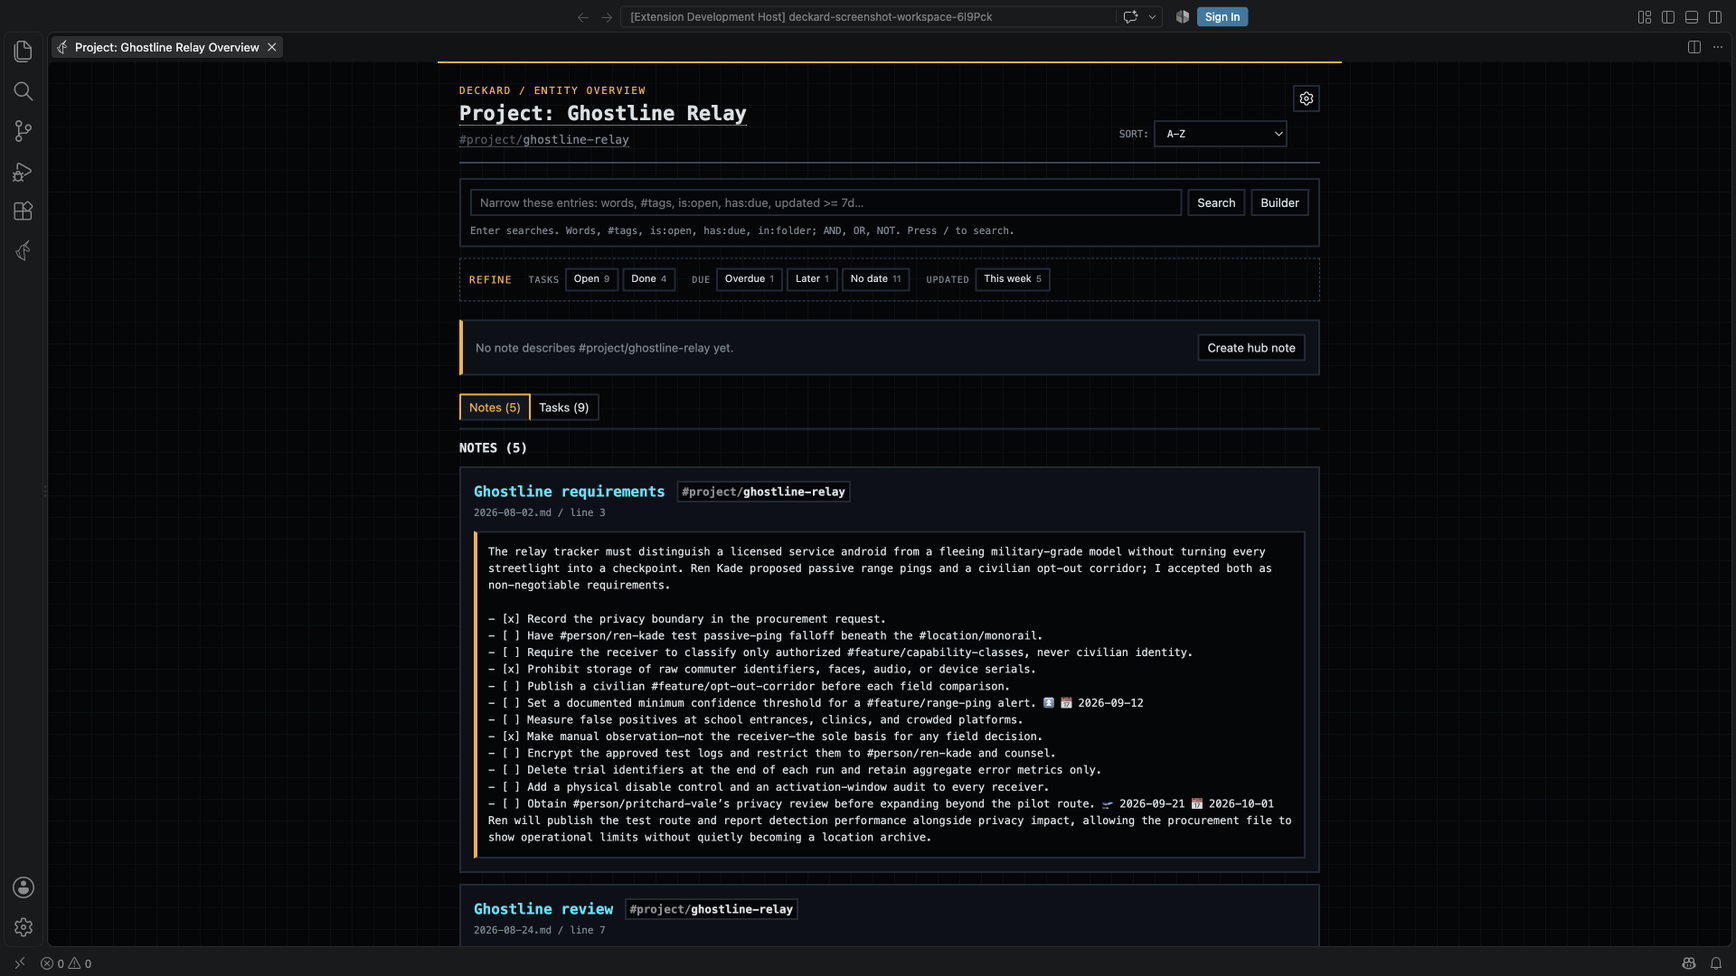
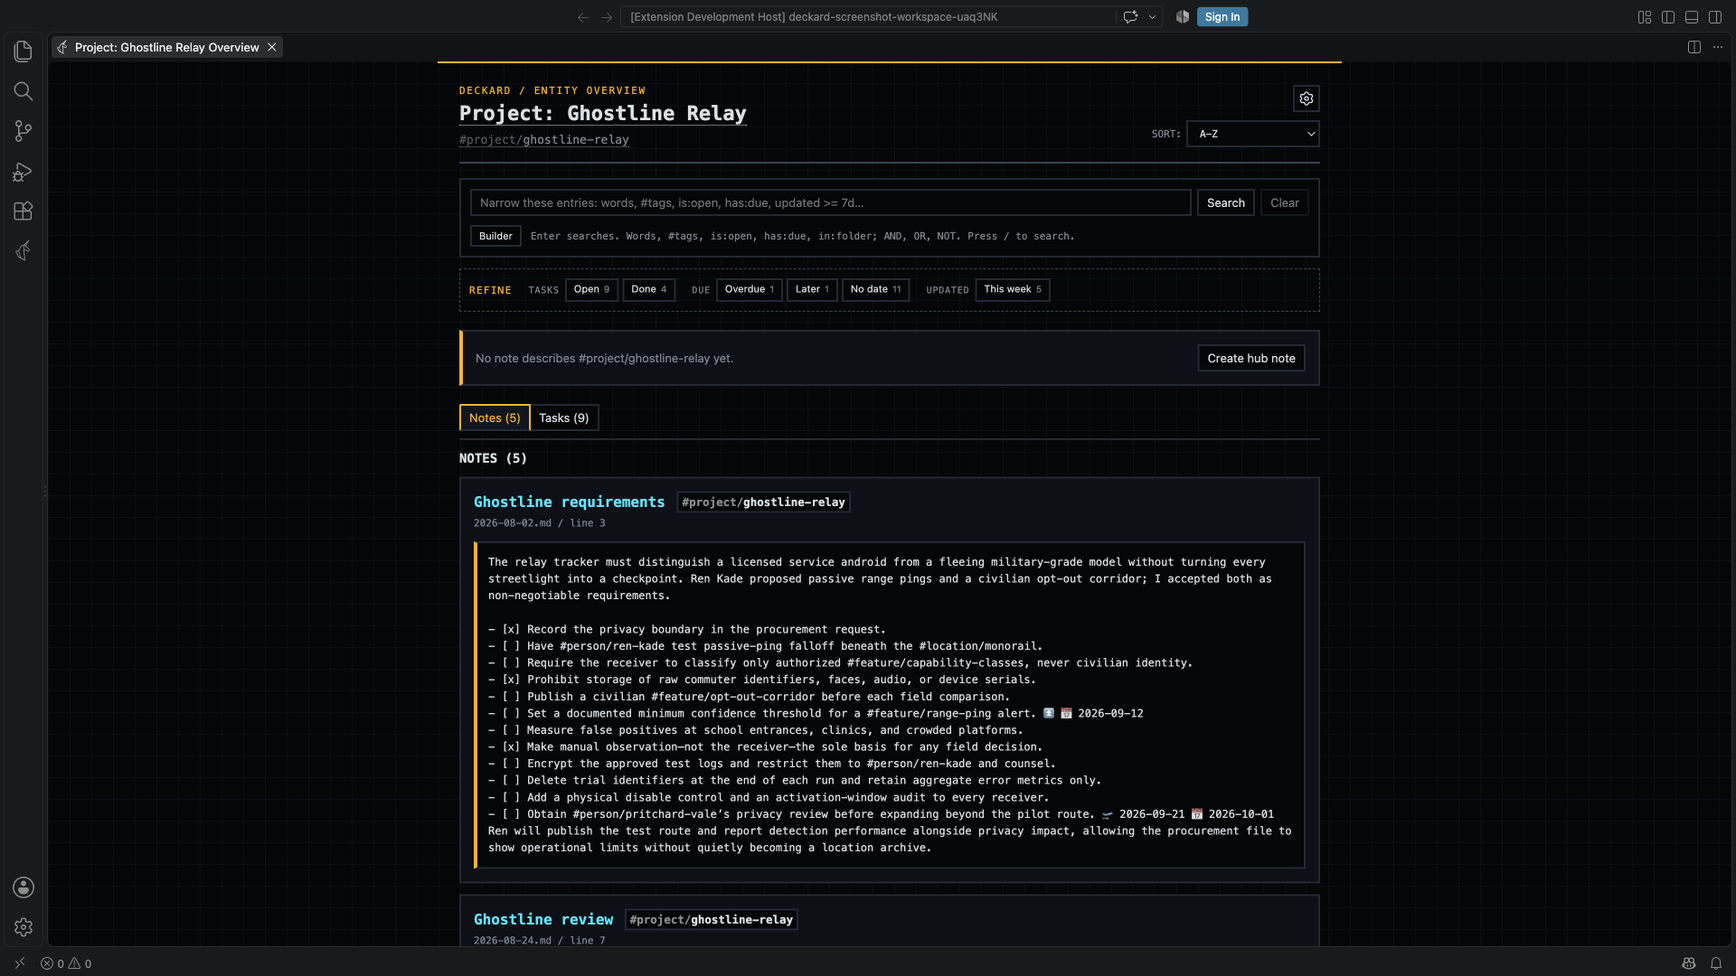
fix: keep the search bar's buttons in place while a search is typed
Search, Clear, and Save are always drawn in the bar, with Clear and Save
disabled until there is text and enabled in place as it is typed, so
nothing appears beside the box under the pointer. Builder moves to the line
under the box, and Save search is now Save.

Changed region(s): [[0.25, 0.2139, 0.75, 0.9778], [0.6875, 0.1833, 0.75, 0.2139], [0.6562, 0.1222, 0.6875, 0.1528]]

diff --git a/src/ui/webview/components.ts b/src/ui/webview/components.ts
@@ -752,6 +752,8 @@ export function getQueryEditorCss(): string {
 .query-suggestion:hover, .query-suggestion.active { background: var(--panel-deep); color: var(--amber); }
 .query-suggestion-detail { color: var(--muted); font-size: 10px; }
 .query-status { display: flex; align-items: center; justify-content: space-between; gap: 10px; flex-wrap: wrap; padding: 0 10px 10px; color: var(--muted); font-size: 11px; }
+.query-status > .query-hint, .query-status > .query-error { flex: 1 1 auto; }
+.query-status .query-builder-toggle { min-height: 24px; padding: 2px 8px; font-size: 11px; }
 .query-error { color: #FF8080; font: 11px var(--font-mono); }
 .query-hint { color: var(--muted); font: 11px var(--font-mono); }
 .query-terms { display: flex; flex-wrap: wrap; gap: 6px; padding: 0 10px 10px; }
@@ -809,7 +811,11 @@ export function getQueryEditorScript(): string {
    *                  what it already shows by the plain words being typed
    *   placeholder()  the empty box's hint
    *   label          what the box searches, for assistive technology
-   *   actions()      optional; the page's own buttons for the bar, such as Save
+   *   actions(hasText) optional; the page's own buttons for the bar, such as
+   *                  Save. A button that needs text carries
+   *                  data-query-needs-text, and is always drawn, disabled
+   *                  until there is text, so the bar never shifts under the
+   *                  pointer while a search is typed.
    */
   function createQueryEditor(options) {
     const DEFAULT_OPERATORS = {
@@ -880,6 +886,7 @@ export function getQueryEditorScript(): string {
     /** The bar, its status line, the search's terms, and the builder. */
     function renderBar() {
       const value = currentText();
+      const hasText = Boolean(String(value).trim());
       const errors = (query().diagnostics || []).filter(function (diagnostic) { return diagnostic.severity === 'error'; });
       const counts = query().matchCounts || { notes: 0, tasks: 0 };
       const status = errors.length
@@ -893,14 +900,26 @@ export function getQueryEditorScript(): string {
         + '<div class="query-bar-row">'
         + '<span class="query-input-shell"><input class="query-input' + (errors.length ? ' invalid' : '') + '" type="text" data-action="query-input" data-suggest-key="query" spellcheck="false" autocomplete="off" role="combobox" aria-expanded="false" aria-autocomplete="list" aria-label="' + escapeHtml(label) + '" placeholder="' + escapeHtml(placeholder()) + '" value="' + escapeHtml(value) + '"><div class="query-suggestions" data-suggestions="query" hidden role="listbox"></div></span>'
         + '<button data-action="apply-query" title="Run this search">Search</button>'
-        + '<button data-action="toggle-builder" aria-expanded="' + builderOpen + '" title="Build the search one condition at a time">' + (builderOpen ? 'Hide builder' : 'Builder') + '</button>'
-        + (value ? '<button data-action="clear-query" title="Clear the search">Clear</button>' : '')
-        + (options.actions ? options.actions() : '')
+        + '<button data-action="clear-query" data-query-needs-text title="Clear the search"' + (hasText ? '' : ' disabled') + '>Clear</button>'
+        + (options.actions ? options.actions(hasText) : '')
         + '</div>'
-        + '<div class="query-status">' + status + summary + '</div>'
+        + '<div class="query-status"><button class="query-builder-toggle" data-action="toggle-builder" aria-expanded="' + builderOpen + '" title="Build the search one condition at a time">' + (builderOpen ? 'Hide builder' : 'Builder') + '</button>' + status + summary + '</div>'
         + renderTerms()
         + renderBuilder()
         + '</section>';
+    }
+
+    /**
+     * Enable the bar's buttons that need text as soon as there is some, in
+     * place, rather than redrawing the bar while a search is typed.
+     */
+    function syncTextButtons(text) {
+      const hasText = Boolean(String(text || '').trim());
+      document.querySelectorAll('[data-query-needs-text]').forEach(function (button) {
+        button.disabled = !hasText;
+        if (hasText) button.removeAttribute('disabled');
+        else button.setAttribute('disabled', '');
+      });
     }
 
     /** Each term of a search of several, removable on its own. */
@@ -1322,6 +1341,7 @@ export function getQueryEditorScript(): string {
         closeSuggestions();
         input.setSelectionRange(nextCaret, nextCaret);
         draft = input.value;
+        syncTextButtons(draft);
         if (options.onDraft) options.onDraft(draft);
         input.focus();
         return;
@@ -1486,6 +1506,8 @@ export function getQueryEditorScript(): string {
         }
         const target = event.target.closest ? event.target.closest('[data-action]') : undefined;
         if (!target) return false;
+        // A disabled button in the bar is there to hold its place, not to act.
+        if (target.disabled === true || (target.getAttribute && target.getAttribute('disabled') !== null)) return true;
         const action = target.dataset.action;
         if (action === 'toggle-builder') {
           builderOpen = !builderOpen;
@@ -1620,6 +1642,7 @@ export function getQueryEditorScript(): string {
             // Escape with no completions open abandons the edit.
             draft = undefined;
             input.value = appliedText();
+            syncTextButtons(input.value);
             if (options.onDraft) options.onDraft(input.value);
           }
           return true;
@@ -1631,6 +1654,7 @@ export function getQueryEditorScript(): string {
         const target = event.target;
         if (target.dataset.action === 'query-input') {
           draft = target.value;
+          syncTextButtons(draft);
           openSuggestions(target);
           if (options.onDraft) options.onDraft(draft);
           return true;

diff --git a/src/ui/webview/helpHtml.ts b/src/ui/webview/helpHtml.ts
@@ -169,7 +169,7 @@ topics: [signal-integrity]
         <div class="card"><h3>Task board</h3><p>Run <code>Deckard: Open Task Board</code>, or select the board icon in the sidebar toolbar or the Agenda's title, to see tasks as a Kanban board grouped by status tag (such as <code>#status/doing</code>), priority, or due date. Drag a card to another column, or choose one from its <strong>⋯</strong> menu, to rewrite the task in its note; dropping it on <strong>Done</strong> completes it. Filter the board with a Deckard query, and set <code>deckard.board.statuses</code> to choose the status columns. In the Dashboard, set <strong>View options</strong> &gt; <strong>Tasks</strong> to <strong>Board</strong> to show the Tasks tab as the same board.</p></div>
         <div class="card"><h3>Due dates</h3><p>Add an ISO date such as <code>2026-09-12</code>, a month/day date, or <code>next Friday</code>. The Dashboard shows upcoming dates in green and overdue dates in red.</p></div>
         <div class="card"><h3>Dashboard navigation and task controls</h3><p>The Dashboard opens on the <strong>Tasks</strong> tab; use its accessible Tasks/Search/Tags tabs or Left/Right Arrow keys to switch modes. Its title identifies the active mode, and the View options gear independently sets each Tasks, Notes, and Tags catalog to one through four columns. Deckard saves the selected tab, searches, tag filters, status filter, and column choices for future Dashboard sessions. <strong>Saved tag views</strong> appear above the tabs so they remain available in any mode. Reopening a saved view shows its name above the matching entity overview title. Use the joined <strong>All</strong>/<strong>Open</strong>/<strong>Done</strong> status filter with counts, text search, the visible <strong>Sort: Rank/Created/Updated</strong> control, or the labeled searchable tag picker. Selected task tags appear as removable chips and <strong>Clear filters</strong> appears when any are selected. Use checkboxes to update the original Markdown task safely. Tag Overviews have the same joined status filter and checkboxes. With <strong>Rank</strong> selected in the Dashboard, drag a task above or below another task to set its display order, or right-click it to move it to the top or bottom. Creation-date and update-date sorts are fixed automatically, so dragging is disabled in those modes. Task ranking is stored only in Deckard preferences; it never reorders task lines in your notes.</p></div>
-          <div class="card"><h3>Dashboard search</h3><p><strong>Search</strong> lists indexed note entries under the search box, with <strong>Sort: A-Z/Newest created/Recently updated/Most accessed</strong>. Plain words filter the notes as you type; tags and conditions such as <code>is:open</code> apply when you press Enter. <strong>Refine</strong> narrows by tags, task state, due and update dates, and folders, <strong>Matching tasks</strong> lists the tasks the search finds, and <strong>Save search</strong>, beside the search box, keeps it as a saved view. Notes use the same full-card presentation and View options format toggle as tag overviews, so you can switch between original Markdown and rendered HTML; the choice is shared with Entity Overview. Select a note entry to open its exact source line; the search is restored when the Dashboard is reopened.</p></div>
+          <div class="card"><h3>Dashboard search</h3><p><strong>Search</strong> lists indexed note entries under the search box, with <strong>Sort: A-Z/Newest created/Recently updated/Most accessed</strong>. Plain words filter the notes as you type; tags and conditions such as <code>is:open</code> apply when you press Enter. <strong>Refine</strong> narrows by tags, task state, due and update dates, and folders, <strong>Matching tasks</strong> lists the tasks the search finds, and <strong>Save</strong>, beside the search box, keeps it as a saved view. Notes use the same full-card presentation and View options format toggle as tag overviews, so you can switch between original Markdown and rendered HTML; the choice is shared with Entity Overview. Select a note entry to open its exact source line; the search is restored when the Dashboard is reopened.</p></div>
         <div class="card"><h3>Browse tags</h3><p>Use <strong>Tags</strong> to browse namespaced entities and lightweight tags together. Search filters the full catalog, and <strong>Namespace</strong> narrows it to one namespace, or to tags without one; favorites remain first, and opening, context-menu actions, and Rank ordering work as they do elsewhere in the Dashboard. Use View options to choose one through four tag columns.</p></div>
       </div>
     </section>

diff --git a/src/test/messages-rendering.test.ts b/src/test/messages-rendering.test.ts
@@ -729,9 +729,15 @@ suite('Webview contracts', () => {
     assert.strictEqual(html.includes('data-action="set-note-sort"'), true);
     assert.strictEqual(html.includes('data-action="set-note-tag"'), false);
     assert.strictEqual(html.includes('data-action="filter-note-tags"'), false);
-    // Save search sits in the search bar, beside the search it saves.
-    assert.strictEqual(html.includes('actions: function ()'), true);
-    assert.strictEqual(html.includes("+ (options.actions ? options.actions() : '')"), true);
+    // Save sits in the search bar, beside the search it saves, and like
+    // Clear it is always there, disabled until there is text, so the bar
+    // never shifts under the pointer.
+    assert.strictEqual(html.includes('data-query-needs-text title="Save this search as a view"'), true);
+    assert.strictEqual(html.includes("(hasText ? '' : ' disabled') + '>Save</button>'"), true);
+    assert.strictEqual(html.includes('data-action="clear-query" data-query-needs-text'), true);
+    assert.strictEqual(html.includes('<div class="query-status"><button class="query-builder-toggle" data-action="toggle-builder"'), true);
+    assert.strictEqual(html.includes('actions: function (hasText)'), true);
+    assert.strictEqual(html.includes("+ (options.actions ? options.actions(hasText) : '')"), true);
     assert.strictEqual(html.includes("dashboardMode === 'notes' ? 'Search'"), true);
     assert.strictEqual(html.includes('data-action="query-input"'), true);
     assert.strictEqual(html.includes("type: 'recordRecentQuery'"), true);

diff --git a/src/test/query-builder-webview.test.ts b/src/test/query-builder-webview.test.ts
@@ -268,6 +268,25 @@ suite('Tag overview query builder', () => {
     assert.match(view.suggestionsFor('query'), /#project\/atlas is:open/);
   });
 
+  test('keeps the bar in place while a search is typed', () => {
+    const view = mountTagOverview();
+    view.send(createState('', { scope: 'tag = #project/atlas' }));
+    const html = view.html();
+
+    // Clear is always drawn, disabled while the box is empty, so nothing
+    // appears beside the box when typing starts.
+    assert.match(html, /data-action="clear-query" data-query-needs-text[^>]*disabled/);
+    // Builder sits under the box, not beside it.
+    assert.ok(
+      html.indexOf('data-action="toggle-builder"') > html.indexOf('class="query-status"'),
+      'the builder toggle is on the line under the box',
+    );
+
+    view.posted.length = 0;
+    view.type({ dataset: { action: 'query-input', suggestKey: 'query' } }, 'vendor');
+    assert.strictEqual(view.html(), html, 'typing does not redraw the bar');
+  });
+
   test('sends the query when a condition is removed', () => {
     const view = mountTagOverview();
     view.send(createState());

diff --git a/test/e2e/overviewQuery.e2e.js b/test/e2e/overviewQuery.e2e.js
@@ -157,6 +157,18 @@ test('the search box is shown without a toggle', async () => {
   assert.strictEqual(view.find('[data-action="toggle-query"]'), null);
 });
 
+test('Clear holds its place and is enabled as a search is typed', async () => {
+  const { view } = await openOverview();
+  const clear = () => view.find('[data-action="clear-query"]');
+  assert.ok(clear(), 'Clear is on the page before anything is typed');
+  assert.notStrictEqual(clear().getAttribute('disabled'), null, 'and disabled');
+
+  view.type(view.find('[data-action="query-input"]'), 'planning');
+
+  assert.strictEqual(clear().getAttribute('disabled'), null, 'typing enables it in place');
+  assert.strictEqual(clear().disabled, false);
+});
+
 test('plain words narrow the page as they are typed', async () => {
   const { view } = await openOverview();
   view.posted.length = 0;

diff --git a/src/ui/webview/dashboardHtml.ts b/src/ui/webview/dashboardHtml.ts
@@ -276,10 +276,8 @@ ${getQueryEditorScript()}
     placeholder: function () { return 'Search notes and tasks: words, #tags, is:open, has:due, in:folder, updated >= 7d…'; },
     label: 'Search notes and tasks',
     // Saving sits with the search it saves.
-    actions: function () {
-      return noteEditor.currentText().trim()
-        ? '<button class="save-filter" data-action="save-note-search" title="Save this search as a view">Save search</button>'
-        : '';
+    actions: function (hasText) {
+      return '<button class="save-filter" data-action="save-note-search" data-query-needs-text title="Save this search as a view"' + (hasText ? '' : ' disabled') + '>Save</button>';
     },
   });
 

diff --git a/test/e2e/webviewRuntime.js b/test/e2e/webviewRuntime.js
@@ -55,6 +55,13 @@ class Element {
     return this.attributes[name] ?? null;
   }
 
+  removeAttribute(name) {
+    delete this.attributes[name];
+    if (name.startsWith('data-')) {
+      delete this.dataset[toCamel(name.slice(5))];
+    }
+  }
+
   setSelectionRange(start) {
     this.selectionStart = start;
   }

diff --git a/README.md b/README.md
@@ -228,7 +228,7 @@ Run `Deckard: Open Dashboard` to see compact workspace totals and switch between
 - The Dashboard title identifies the active mode as **Dashboard: Tasks**, **Dashboard: Search**, or **Dashboard: Tags**. Use the View options gear to choose independent one-through-four column limits for task, note, and tag cards; Deckard saves all three choices for future Dashboard sessions.
 - **Tasks as a board**: open **View options** and set **Tasks** to **Board** to show the Tasks tab as the same Kanban board the [Task board](#task-board) uses, grouped by status, priority, or due date. The tab's **All**, **Open**, and **Done** filter, tag picker, and search still choose which tasks appear, and Deckard remembers the layout and grouping.
 - **Task controls** provide visible **All**, **Open**, and **Done** counts, text search, plus **Sort: Rank/Created/Updated**. Open the labeled searchable tag picker to select task tags; selected tags appear as removable chips, with **Clear filters** available when tags are selected. A task appears when it matches any selected tag. Rank is the default; date sorting uses the source file's filesystem timestamps.
-- **Search** is Deckard's search page. It lists indexed note entries under the [search box](#the-search-box), with **Sort: A-Z/Newest created/Recently updated/Most accessed**. Plain words filter the notes as you type, including their file names and tags; tags and conditions such as `is:open` apply when you press Enter. To narrow by tags, type them in the search box or select them under **Refine**. Below the notes, **Matching tasks** lists the tasks the search finds, and **Save search**, beside the search box, keeps it as a saved view. Notes use the same full-card presentation and View options format toggle as tag overviews, so you can switch between original Markdown and rendered HTML; the choice is shared with Entity Overview. Select a note entry to jump to its source line.
+- **Search** is Deckard's search page. It lists indexed note entries under the [search box](#the-search-box), with **Sort: A-Z/Newest created/Recently updated/Most accessed**. Plain words filter the notes as you type, including their file names and tags; tags and conditions such as `is:open` apply when you press Enter. To narrow by tags, type them in the search box or select them under **Refine**. Below the notes, **Matching tasks** lists the tasks the search finds, and **Save**, beside the search box, keeps it as a saved view. Notes use the same full-card presentation and View options format toggle as tag overviews, so you can switch between original Markdown and rendered HTML; the choice is shared with Entity Overview. Select a note entry to jump to its source line.
 - **Tags** shows namespaced and unnamespaced tags together. Search tags, narrow them to one namespace, or to tags without one, with **Namespace**, then sort alphabetically, by entry count, by most accessed, or by custom rank. Favorite important items; in Rank mode, drag a row or use its context menu to move it to the top or bottom. Wherever a namespaced tag is shown inline, its `#namespace/` prefix is muted while the tag value keeps the surrounding view's normal color.
 - **Searches are kept** between visits. When a search is narrowing the Tasks or Tags list, a line above the list says so, such as *Showing 3 of 42 open tasks matching “vendor”*, with **Clear search**, and the search box is outlined. A dot on the **Tasks**, **Search**, or **Tags** tab marks a tab whose search has text, so a search is never hidden on a tab you are not looking at.
 - Select a tag to open its [tag overview](#tag-overviews).
@@ -417,9 +417,9 @@ The Dashboard's Search tab and every tag overview have the same search box. Pres
 - In a tag overview the box narrows the tag's own entries, and the tags stay in the title. A whole `#tag` typed in the box moves into the title as another tag, as adding an associated tag does, and the rest of what you typed stays in the box as you wrote it.
 - A search of several terms shows each as a chip under the box; the **×** on a chip removes that term and keeps the rest as you wrote it.
 - A parse error is reported under the box and the previous results stay on screen, so a half-typed search never empties the page.
-- **Save filter** in an overview, or **Save search** on the Search tab, stores the search under a name. Saved searches appear in the Dashboard's saved views, open on the Search tab, and survive tags being renamed or removed from the index.
+- **Save filter** in an overview, or **Save** on the Search tab, stores the search under a name. Saved searches appear in the Dashboard's saved views, open on the Search tab, and survive tags being renamed or removed from the index.
 
-**Builder** edits the same search as OR groups of AND rows. **Add condition** starts a row from its value: type a tag, a word, or a value such as `open`, and choose a completion or press <kbd>Enter</kbd>, and the row fills in its field and operator. <kbd>Enter</kbd> then opens the next row, <kbd>Backspace</kbd> in an empty row removes it, and <kbd>Ctrl</kbd>+<kbd>Enter</kbd> (<kbd>Cmd</kbd>+<kbd>Enter</kbd> on macOS) starts a new OR group. A finished row keeps its field, operator, and value dropdowns for editing. The operator list shows the operators themselves — `=`, `!=`, `~`, `!~`, `>`, `>=`, `<`, `<=` — with their meaning on hover, so there is no separate negate control to disagree with a row, and a hand-written `NOT tag = #a` opens in the builder as `tag != #a`. The search box remains the source of truth, so a condition the builder cannot represent, such as a negated group, is shown as read-only text rather than rewritten.
+**Builder**, under the search box, edits the same search as OR groups of AND rows. **Add condition** starts a row from its value: type a tag, a word, or a value such as `open`, and choose a completion or press <kbd>Enter</kbd>, and the row fills in its field and operator. <kbd>Enter</kbd> then opens the next row, <kbd>Backspace</kbd> in an empty row removes it, and <kbd>Ctrl</kbd>+<kbd>Enter</kbd> (<kbd>Cmd</kbd>+<kbd>Enter</kbd> on macOS) starts a new OR group. A finished row keeps its field, operator, and value dropdowns for editing. The operator list shows the operators themselves — `=`, `!=`, `~`, `!~`, `>`, `>=`, `<`, `<=` — with their meaning on hover, so there is no separate negate control to disagree with a row, and a hand-written `NOT tag = #a` opens in the builder as `tag != #a`. The search box remains the source of truth, so a condition the builder cannot represent, such as a negated group, is shown as read-only text rather than rewritten.
 
 ### Refine
 

diff --git a/docs/search-options.md b/docs/search-options.md
@@ -7,7 +7,7 @@ as recommended below. Where the implementation departs from the plan:
 
 - **Search lives on the Dashboard's Search tab**, which was the Notes tab.
   It is the search page: it has the full search box, the builder, the facets, the tasks the
-  search matches, and **Save search**. Find's **Show all**, `Deckard: Search
+  search matches, and **Save**. Find's **Show all**, `Deckard: Search
   Notes and Tasks`, a query block's CodeLens (now **Open in search**), and
   saved searches open there. Tag overviews keep the same search box to
   narrow their own entries.

diff --git a/CHANGELOG.md b/CHANGELOG.md
@@ -32,7 +32,7 @@
 
 - **The Search tab**: the Dashboard's Notes tab is now **Search**, Deckard's
   search page. It has the full search box, with completions, the builder,
-  **Refine** counts, the tasks the search matches, and **Save search** beside
+  **Refine** counts, the tasks the search matches, and **Save** beside
   the box. Its tag picker is gone, since tags are typed in the search or
   chosen under **Refine**. `Deckard: Search Notes and Tasks`, **Show all** in
   Find, a query block's **Open in search**, and saved searches open there.
